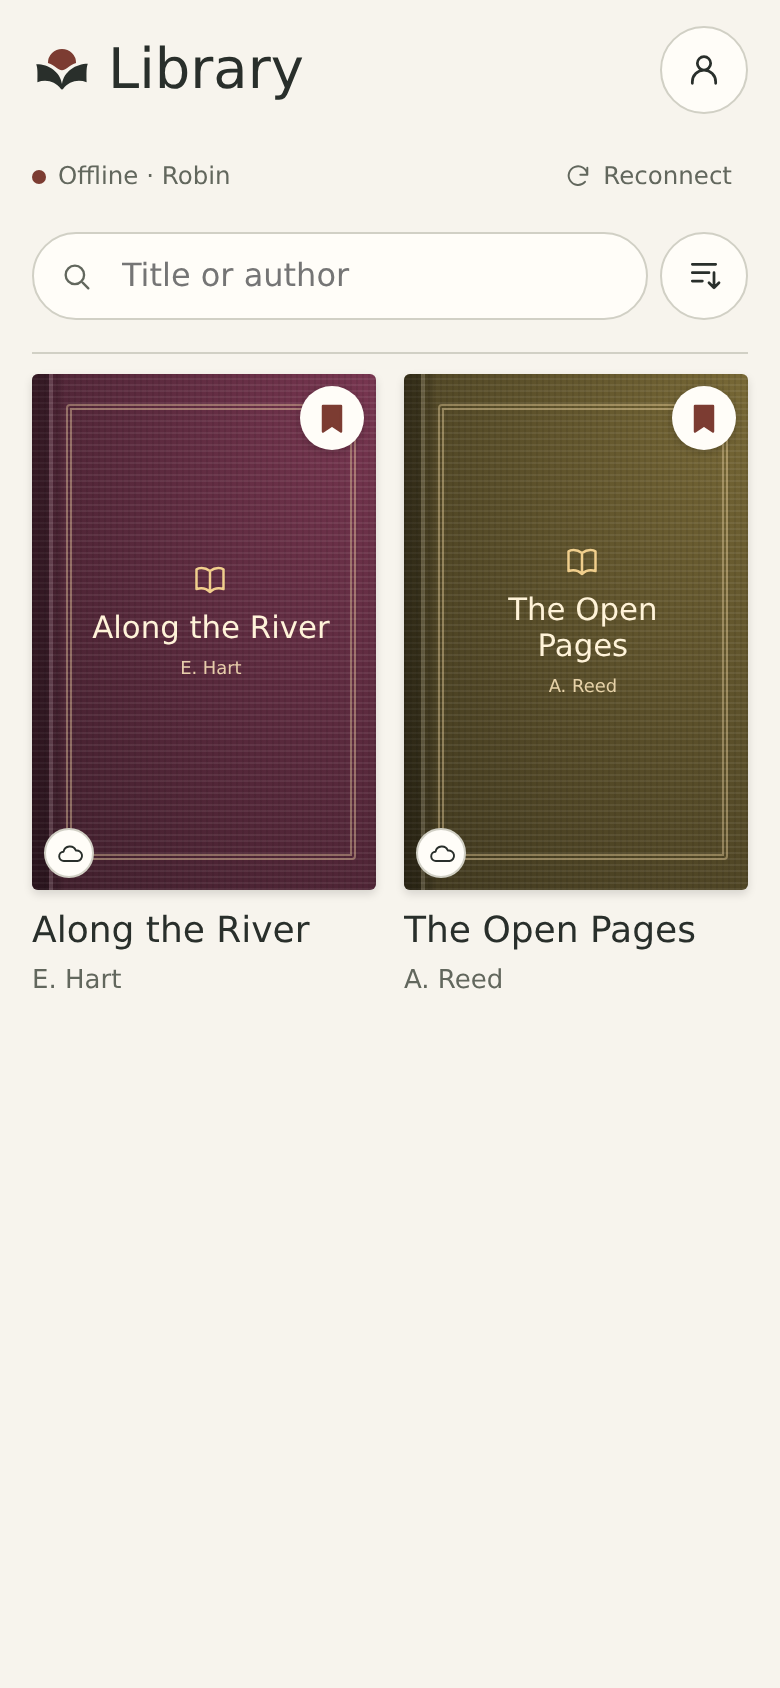
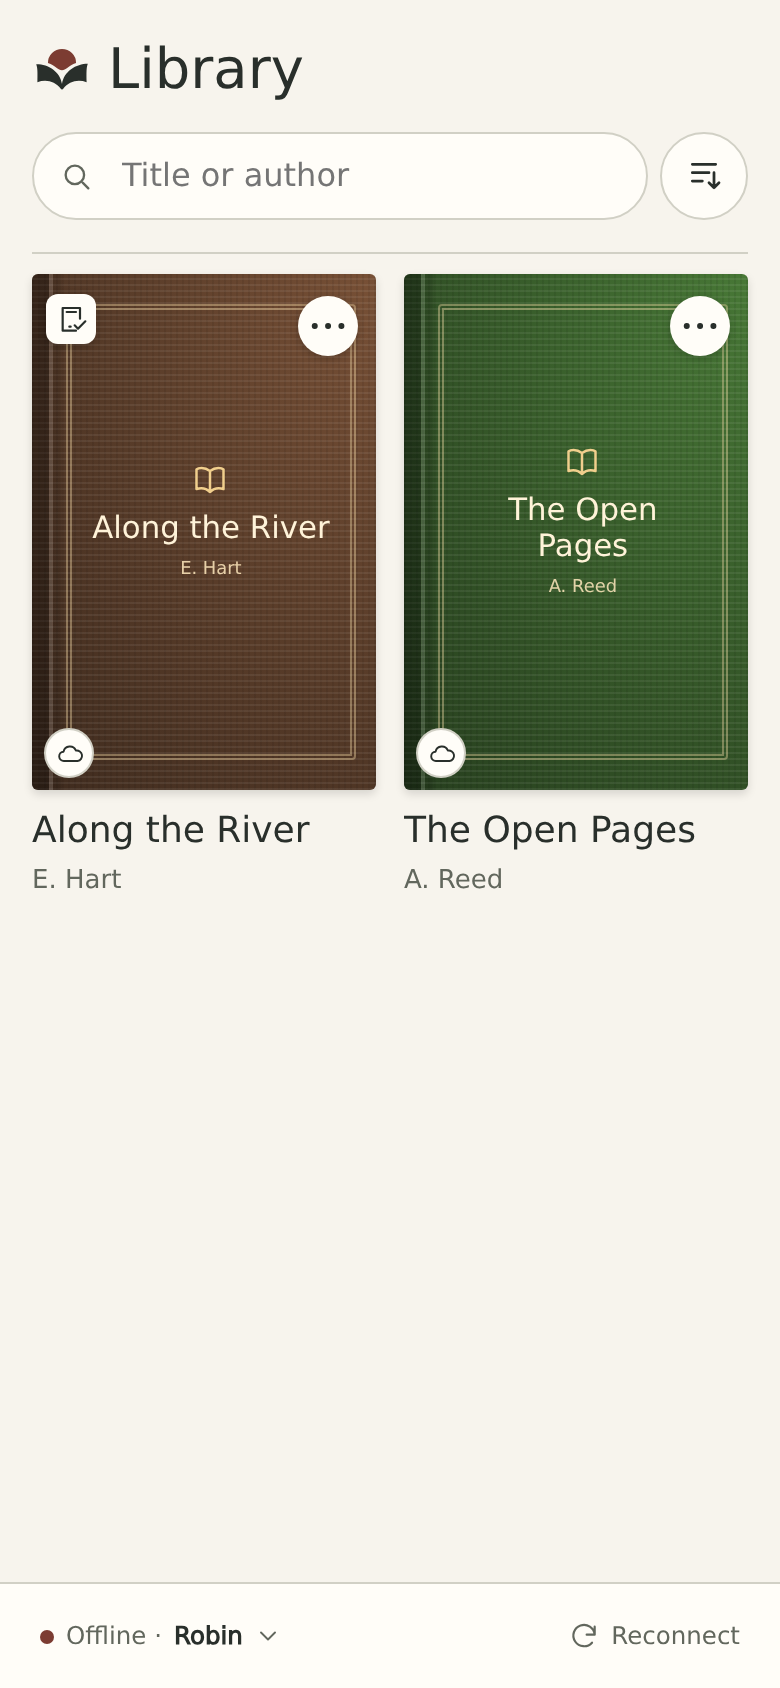
feat(web): dock offline controls and confirm book retention changes

diff --git a/web/tests/offline-library.spec.ts b/web/tests/offline-library.spec.ts
@@ -6,7 +6,7 @@ test('cold start, pick a profile, review offline reading and upload the selected
   await register(page, server.origin, user);
   await page.getByRole('heading', { name: 'Public book 01', exact: true }).click();
   await page.getByRole('button', { name: 'Keep on this device' }).click();
-  await expect(page.getByRole('button', { name: 'Unpin offline copy' })).toBeVisible();
+  await expect(page.getByRole('button', { name: 'Stop keeping on this device' })).toBeVisible();
   const started = new Date(); started.setUTCHours(12,0,0,0); started.setUTCDate(started.getUTCDate()-1);
   const { csrf_token, user: identity } = await (await page.request.get(`${server.origin}/api/v1/session`)).json();
   const headers = { Origin: server.origin, 'X-CSRF-Token': csrf_token, 'X-AnthoLume-Reading-Generation': identity.reading_generation };
@@ -21,7 +21,9 @@ test('cold start, pick a profile, review offline reading and upload the selected
   const cold = await context.newPage();
   await cold.goto(`${server.origin}/`);
   await cold.getByRole('button', {name: user, exact:true}).click();
-  await expect(cold.getByRole('status').filter({hasText:'Offline · ' + user})).toBeVisible();
+  const bar = cold.getByRole('region', {name:'Offline controls'});
+  await expect(bar.getByRole('button', {name:`Switch profile: ${user}`})).toBeVisible();
+  expect(Math.round((await bar.boundingBox())!.y + (await bar.boundingBox())!.height)).toBe(cold.viewportSize()!.height);
   await expect(cold.getByRole('navigation',{name:'Main navigation'})).toHaveCount(0);
   await expect(cold.getByRole('button',{name:'Switch profile'})).toBeVisible();
   await expect(cold.getByRole('article')).toHaveCount(1);
@@ -88,7 +90,7 @@ test('a signed-out profile can read a shared copy; only that account sees its re
   await register(page,server.origin,alice);
   await page.getByRole('heading',{name:'Public book 01',exact:true}).click();
   await page.getByRole('button',{name:'Keep on this device'}).click();
-  await expect(page.getByRole('button',{name:'Unpin offline copy'})).toBeVisible();
+  await expect(page.getByRole('button',{name:'Stop keeping on this device'})).toBeVisible();
   await page.goto(`${server.origin}/library`);
   await context.setOffline(true);
   await page.getByRole('button',{name:bob,exact:true}).click();
@@ -118,7 +120,7 @@ test('seven pins and an automatically cached book coexist on the offline shelf',
     await page.getByRole('heading', { name: `Public book ${String(i).padStart(2, '0')}`, exact: true }).click();
     if (i <= 7) {
       await page.getByRole('button', { name: 'Keep on this device' }).click();
-      await expect(page.getByRole('button', { name: 'Unpin offline copy' })).toBeVisible();
+      await expect(page.getByRole('button', { name: 'Stop keeping on this device' })).toBeVisible();
     } else {
       await page.getByRole('link', { name: 'Read', exact: true }).click();
       await expect(page.getByRole('region', { name: 'Book reader' })).toHaveAttribute('data-reader-state', 'ready');
@@ -128,9 +130,18 @@ test('seven pins and an automatically cached book coexist on the offline shelf',
   await context.setOffline(true);
   await page.getByRole('button',{name:'offline-capacity',exact:true}).click();
   await expect(page.getByRole('article')).toHaveCount(8);
-  const pins = page.getByRole('button', { name: /^Unpin offline copy:/, pressed: true });
-  await expect(pins).toHaveCount(7);
-  await pins.first().click();
-  await expect(pins).toHaveCount(6);
+  const kept = page.getByRole('img', { name: 'Kept on this device' });
+  await expect(kept).toHaveCount(7);
+  const card = page.getByRole('article').filter({hasText:'Public book 01'});
+  for (const action of ['Cancel', 'Stop keeping']) {
+    await card.locator('summary').click();
+    await card.getByRole('button',{name:'Stop keeping on this device'}).click();
+    await expect(kept).toHaveCount(7);
+    await page.getByRole('dialog',{name:'Stop keeping this book?'}).getByRole('button',{name:action,exact:true}).click();
+  }
+  await expect(kept).toHaveCount(6);
+  await card.locator('summary').click();
+  await card.getByRole('button',{name:'Keep on this device'}).click();
+  await expect(kept).toHaveCount(7);
   await expect(page.getByRole('article')).toHaveCount(8);
 });

diff --git a/web/src/OfflinePin.tsx b/web/src/OfflinePin.tsx
@@ -1,27 +1,47 @@
 import { useEffect, useRef, useState } from 'react';
 import { useReading, type BookRef } from './reading';
 import { Button } from './Controls';
-import { ErrorNotice } from './ui';
-
+import { Dialog, ErrorNotice } from './ui';
 import { Icon } from './Icon';
 import styles from './OfflineReading.module.css';
 
 export function OfflinePin({ book, pinned, metadata, overlay = false }: { overlay?: boolean; book: Extract<BookRef, { kind: 'server' }>; pinned: boolean; metadata: { title: string | null; author: string | null } }) {
   const reading = useReading();
   const controller = useRef<AbortController | null>(null);
-  const [busy, setBusy] = useState(false), [error, setError] = useState<unknown>(null);
+  const menu = useRef<HTMLDetailsElement>(null);
+  const [confirm, setConfirm] = useState(false), [busy, setBusy] = useState(false), [error, setError] = useState<unknown>(null);
   useEffect(() => () => controller.current?.abort(), []);
-  async function toggle() {
+  function closeMenu() {
+    if (!menu.current?.open) return;
+    menu.current.open = false;
+    menu.current.querySelector('summary')?.focus();
+  }
+  async function save(keep: boolean) {
     if (controller.current) return;
     const operation = controller.current = new AbortController();
     setBusy(true); setError(null);
-    try { await reading.setPinned(book, !pinned, operation.signal, metadata); }
+    try { await reading.setPinned(book, keep, operation.signal, metadata); setConfirm(false); }
     catch (failure) { if (!operation.signal.aborted) setError(failure); }
     finally {
       if (!operation.signal.aborted) setBusy(false);
       operation.abort(); controller.current = null;
     }
   }
-  if (overlay) return <><button type="button" className={styles.bookmark} aria-busy={busy} disabled={busy || !reading.ready} aria-pressed={pinned} title={pinned ? 'Unpin offline copy' : 'Keep on this device'} aria-label={`${pinned ? 'Unpin offline copy' : 'Keep on this device'}: ${metadata.title ?? 'Untitled'}`} onClick={() => void toggle()}><Icon name="bookmark" size={18} /></button><ErrorNotice error={error} /></>;
-  return <><Button disabled={busy || !reading.ready} aria-pressed={pinned} onClick={() => void toggle()}>{busy ? 'Updating offline copy…' : pinned ? 'Unpin offline copy' : 'Keep on this device'}</Button><ErrorNotice error={error} /></>;
+  function choose() {
+    closeMenu(); setError(null);
+    if (pinned) setConfirm(true); else void save(true);
+  }
+  const label = busy ? 'Updating offline copy…' : pinned ? 'Stop keeping on this device' : 'Keep on this device';
+  return <>{overlay ? <>
+    {pinned && <span className={styles.keptBadge} role="img" aria-label="Kept on this device" title="Kept on this device"><Icon name="kept" size={16} /></span>}
+    <details ref={menu} className={styles.bookOptions} name="offline-book-options" onBlur={e => { if (!e.currentTarget.contains(e.relatedTarget)) e.currentTarget.open = false; }} onKeyDown={e => { if (e.key === 'Escape') { e.preventDefault(); closeMenu(); } }}>
+      <summary aria-label={`Options for ${metadata.title ?? 'Untitled'}`} title="Book options"><Icon name="more" size={20} /></summary>
+      <div><button onClick={choose} disabled={busy || !reading.ready}>{label}</button></div>
+    </details></> : <Button disabled={busy || !reading.ready} onClick={choose}>{label}</Button>}
+    {!confirm && <ErrorNotice error={error} />}
+    {confirm && <Dialog title="Stop keeping this book?" onClose={() => { if (!busy) setConfirm(false); }} footer={<>
+      <Button disabled={busy} onClick={() => setConfirm(false)}>Cancel</Button>
+      <Button tone="primary" disabled={busy} onClick={() => void save(false)}>Stop keeping</Button>
+    </>}><p>Its offline copy may be cleared. Your reading progress is kept.</p><ErrorNotice error={error} /></Dialog>}
+  </>;
 }

diff --git a/web/src/OfflineReading.module.css b/web/src/OfflineReading.module.css
@@ -11,16 +11,27 @@
 .profile > svg { flex: none; color: var(--muted); }
 .avatar { flex: none; display: grid; place-items: center; width: 40px; height: 40px; border-radius: 50%; color: var(--ink); background: var(--hero); font: 22px var(--display); }
 .profiles li:nth-child(2n) .avatar { background: color-mix(in srgb, var(--accent) 16%, var(--surface)); }
-.picker footer, .shelfStatus { display: flex; align-items: center; justify-content: space-between; }
-.picker footer { margin-top: 12px; }
+.picker { padding-bottom: calc(64px + env(safe-area-inset-bottom)); }
+.manage { display: block; margin: 10px auto; border: 0; background: transparent; color: var(--muted); }
 .quiet { display: inline-flex; align-items: center; justify-content: center; gap: 6px; min-width: 44px; min-height: 44px; padding: 4px 8px; background: none; border: 0; color: var(--muted); font-size: .875rem; }
 .quiet:hover:not(:disabled), .profile:hover { background: var(--hero); color: var(--ink); }
-.shelfStatus { color: var(--muted); font-size: .875rem; margin-bottom: 6px; }
-.shelfStatus span { display: flex; align-items: center; gap: 6px; }
-.shelfStatus i { width: 7px; height: 7px; border-radius: 50%; background: var(--accent); }
-.bookmark { position: absolute; top: 0; right: 0; width: 44px; height: 44px; padding: 0; border: 0; display: grid; place-items: center; background: transparent; color: var(--ink); }
-.bookmark svg { box-sizing: content-box; padding: 7px; background: var(--surface); border-radius: 50%; box-shadow: 0 1px 4px #0003; }
-.bookmark[aria-pressed='true'] svg { fill: var(--accent); color: var(--accent); }
+.statusBar { position: fixed; z-index: 10; inset: auto 0 0; padding: 4px max(12px, env(safe-area-inset-right)) calc(4px + env(safe-area-inset-bottom)) max(12px, env(safe-area-inset-left)); border-top: 1px solid var(--line); background: var(--surface); }
+.statusBar > div { max-width: 1200px; margin: auto; display: flex; justify-content: space-between; align-items: center; gap: 12px; }
+.statusBar span { display: flex; align-items: center; gap: 8px; padding-inline: 8px; color: var(--muted); font-size: .875rem; }
+.statusBar i { flex: none; width: 7px; height: 7px; border-radius: 50%; background: var(--accent); }
+.statusBar strong { overflow: hidden; white-space: nowrap; text-overflow: ellipsis; color: var(--ink); }
+.statusBar button { min-width: 0; }
+.statusBar button:last-child { flex: none; }
+.keptBadge, .bookOptions { position: absolute; top: 4px; }
+.keptBadge { left: 7px; top: 10px; width: 25px; height: 25px; display: grid; place-items: center; color: var(--ink); background: var(--surface); border-radius: 6px; pointer-events: none; box-shadow: 0 1px 4px #0003; }
+.bookOptions { right: 2px; }
+.bookOptions[open] { z-index: 2; }
+.bookOptions summary { width: 44px; height: 44px; display: grid; place-items: center; list-style: none; cursor: pointer; }
+.bookOptions summary::-webkit-details-marker { display: none; }
+.bookOptions summary svg { box-sizing: content-box; padding: 5px; stroke-width: 3.5; color: var(--ink); background: var(--surface); border-radius: 50%; box-shadow: 0 1px 4px #0003; }
+.bookOptions > div { position: absolute; right: 5px; top: 40px; width: min(156px, 39vw); padding: 4px; border: 1px solid var(--line); border-radius: 10px; background: var(--surface); box-shadow: 0 4px 16px #0003; }
+.bookOptions button { width: 100%; text-align: start; border: 0; border-radius: 6px; font-size: .875rem; }
+.bookOptions button:hover { background: var(--hero); }
 .reviewBook { padding: 12px 0; border-top: 1px solid var(--line); }
 .reviewBook header, .reviewBook label { display: grid; grid-template-columns: minmax(0, 1fr) repeat(2, minmax(52px, 18%)); gap: 6px; align-items: center; text-align: end; }
 .reviewBook header { padding: 0 8px 6px; }

diff --git a/web/src/routes/Library.tsx b/web/src/routes/Library.tsx
@@ -9,7 +9,7 @@ import styles from '../App.module.css';
 import { Icon } from '../Icon';
 import { LoadingStatus, Skeleton } from '../Skeleton';
 import { RecentBooks } from '../RecentBooks';
-import offlineStyles from '../OfflineReading.module.css';
+import { OfflineStatusBar } from '../OfflineStatusBar';
 import { profiles } from '../offlineProfiles';
 import { OfflinePin } from '../OfflinePin';
 import { Button } from '../Controls';
@@ -138,8 +138,8 @@ export function Library() {
   }
   return <>
     <PageHeader title="Library" headingRef={heading} mobileBrand
-      actions={offline ? <button className={styles.icon} title="Switch profile" aria-label="Switch profile" onClick={() => session.chooseOffline()}><Icon name="user" /></button> : reading.pendingCount > 0 && <Link className={styles.pendingSync} to="/settings?sync=open">{reading.pendingCount} pending</Link>} />
-    {offline && <div className={offlineStyles.shelfStatus}><span role="status"><i />Offline · {profiles().find(p => p.account.userId === access.account.userId && p.account.readingGeneration === access.account.readingGeneration)?.name ?? 'On this device'}</span><button className={offlineStyles.quiet} onClick={() => void session.checkSession()}><Icon name="refresh" size={14} />Reconnect</button></div>}
+      actions={!offline && reading.pendingCount > 0 && <Link className={styles.pendingSync} to="/settings?sync=open">{reading.pendingCount} pending</Link>} />
+    {offline && <OfflineStatusBar profile={profiles().find(p => p.account.userId === access.account.userId && p.account.readingGeneration === access.account.readingGeneration)?.name ?? 'Reader'} />}
     {!reading.ready && !sharedEnabled && <LoadingStatus>Opening your stored library…</LoadingStatus>}
     <RecentBooks books={recent} bookLinkState={bookLinkState} />
     <form className={styles.searchRow} role="search" onSubmit={(event) => { event.preventDefault(); update('q', input.trim()); }}>

diff --git a/web/src/OfflineReading.tsx b/web/src/OfflineReading.tsx
@@ -6,6 +6,7 @@ import { profiles, type OfflineProfile } from './offlineProfiles';
 import { useReading, type Account, type OfflineChoice, type OfflineRecord } from './reading';
 import { Dialog, ErrorNotice } from './ui';
 import { Button } from './Controls';
+import { OfflineStatusBar } from './OfflineStatusBar';
 import { Brand } from './Brand';
 import { Icon } from './Icon';
 import styles from './OfflineReading.module.css';
@@ -25,8 +26,8 @@ export function OfflinePicker() {
         <strong>{p.name}</strong><Icon name="forward" size={18} />
       </button>{manage && <button className={styles.quiet} aria-label={`Forget ${p.name}`} onClick={() => { setError(null); setForget(p); }}><Icon name="trash" size={17} /></button>}
     </li>)}</ul>
-    <footer><button className={styles.quiet} onClick={() => void session.checkSession()}><Icon name="refresh" size={16} /> Reconnect</button>
-      {!!remembered.length && <button className={styles.quiet} aria-pressed={manage} onClick={() => setManage(!manage)}>{manage ? 'Done' : 'Manage profiles'}</button>}</footer>
+    {!!remembered.length && <button className={styles.manage} aria-pressed={manage} onClick={() => setManage(!manage)}>{manage ? 'Done' : 'Manage profiles'}</button>}
+    <OfflineStatusBar />
     {forget && <Dialog title={`Forget ${forget.name}?`} onClose={() => setForget(undefined)}>
       <p>This removes the offline profile and its unsubmitted reading.</p><ErrorNotice error={error} />
       <Button onClick={async () => { try { await reading.forgetDrafts(forget.account); session.forgetOffline(forget.account); setForget(undefined); } catch (e) { setError(e); } }}>Forget on this device</Button>

diff --git a/web/src/Icon.tsx b/web/src/Icon.tsx
@@ -1,7 +1,9 @@
-type Name = 'bookmark' | 'library' | 'insights' | 'settings' | 'back' | 'book' | 'download' | 'check' | 'cloud' | 'device' | 'search' | 'add' | 'sort' | 'edit' | 'trash' | 'contents' | 'user' | 'warning' | 'folder' | 'up' | 'forward' | 'refresh' | 'sign-out' | 'upload' | 'info';
+type Name = 'more' | 'kept' | 'down' | 'library' | 'insights' | 'settings' | 'back' | 'book' | 'download' | 'check' | 'cloud' | 'device' | 'search' | 'add' | 'sort' | 'edit' | 'trash' | 'contents' | 'user' | 'warning' | 'folder' | 'up' | 'forward' | 'refresh' | 'sign-out' | 'upload' | 'info';
 
 const paths: Record<Name, string> = {
-  bookmark: 'M6 4h12v17l-6-4-6 4z',
+  more: 'M4 12h.1m7.9 0h.1m7.9 0h.1',
+  kept: 'M15 20H5V3h13v8 M8 6h7 M10 17h1 m3-1 2.5 2.5L22 13',
+  down: 'm6 9 6 6 6-6',
   library: 'M4 5h4v14H4z M8 5h4v14H8z M14 6l3.5-1 4 13-3.5 1z',
   insights: 'M4 19h16 M7 15v-4 M12 15V6 M17 15V9',
   settings: 'M4 6h7m4 0h5 M4 12h3m4 0h9 M4 18h10m4 0h2 M11 4v4 M7 10v4 M14 16v4',

diff --git a/web/src/OfflineStatusBar.tsx b/web/src/OfflineStatusBar.tsx
@@ -1,0 +1,12 @@
+import { session } from './session';
+import { Icon } from './Icon';
+import styles from './OfflineReading.module.css';
+
+export function OfflineStatusBar({ profile }: { profile?: string }) {
+  return <section className={styles.statusBar} aria-label="Offline controls"><div>
+    {profile ? <button className={styles.quiet} aria-label={`Switch profile: ${profile}`} onClick={() => session.chooseOffline()}>
+      <i aria-hidden="true" /> Offline · <strong>{profile}</strong><Icon name="down" size={14} />
+    </button> : <span><i aria-hidden="true" /> Offline</span>}
+    <button className={styles.quiet} onClick={() => void session.checkSession()}><Icon name="refresh" size={16} />Reconnect</button>
+  </div></section>;
+}

diff --git a/web/src/App.module.css b/web/src/App.module.css
@@ -23,6 +23,7 @@
 }
 .workspace { margin-left: 184px; }
 .offlineWorkspace { margin: 0 auto; }
+.offlineWorkspace:has([aria-label='Offline controls']) { padding-bottom: calc(64px + env(safe-area-inset-bottom)); }
 .offlineWorkspace .mobileBrand { display: block; }
 .main { padding: 22px 28px 36px; max-width: 1260px; margin: auto; }
 .readerShell .rail, .readerShell .skip { display: none; }

diff --git a/screenshots/offline/README.md b/screenshots/offline/README.md
@@ -6,6 +6,12 @@ Captured from the running app in mobile Chromium (390 × 844). Select a screensh
 | --- | --- | --- |
 | [![Offline profile picker](01-profiles.png)](01-profiles.png) | [![Library showing two cached books](02-library.png)](02-library.png) | [![Reader after turning pages offline](03-reader.png)](03-reader.png) |
 
+The bottom bar offers **Reconnect** on both screens and a profile switcher only after selection. A device ✓ marks a book kept on this device.
+
+| Book options | Confirm before releasing a kept copy |
+| --- | --- |
+| [![Cover options](02b-book-options.png)](02b-book-options.png) | [![Stop keeping confirmation](02c-confirm.png)](02c-confirm.png) |
+
 | 4. Review after reconnecting | 5. Choose what to upload | 6. Review what remains |
 | --- | --- | --- |
 | [![Two books with unchecked progress and activity](04-review.png)](04-review.png) | [![Activity selected for Along the River and progress selected for The Open Pages](05-selected.png)](05-selected.png) | [![Only the unchecked records remain after the upload](06-remaining.png)](06-remaining.png) |
